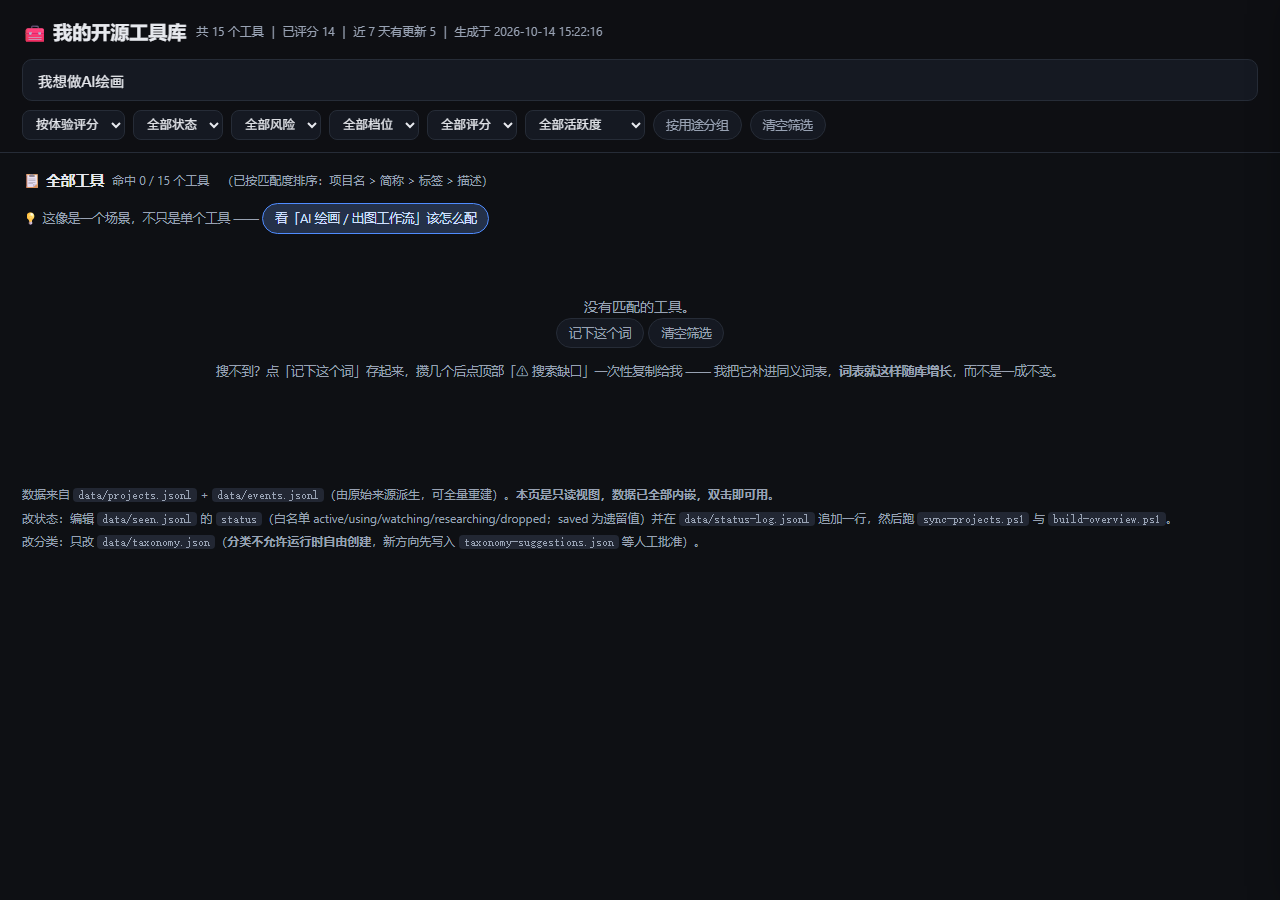
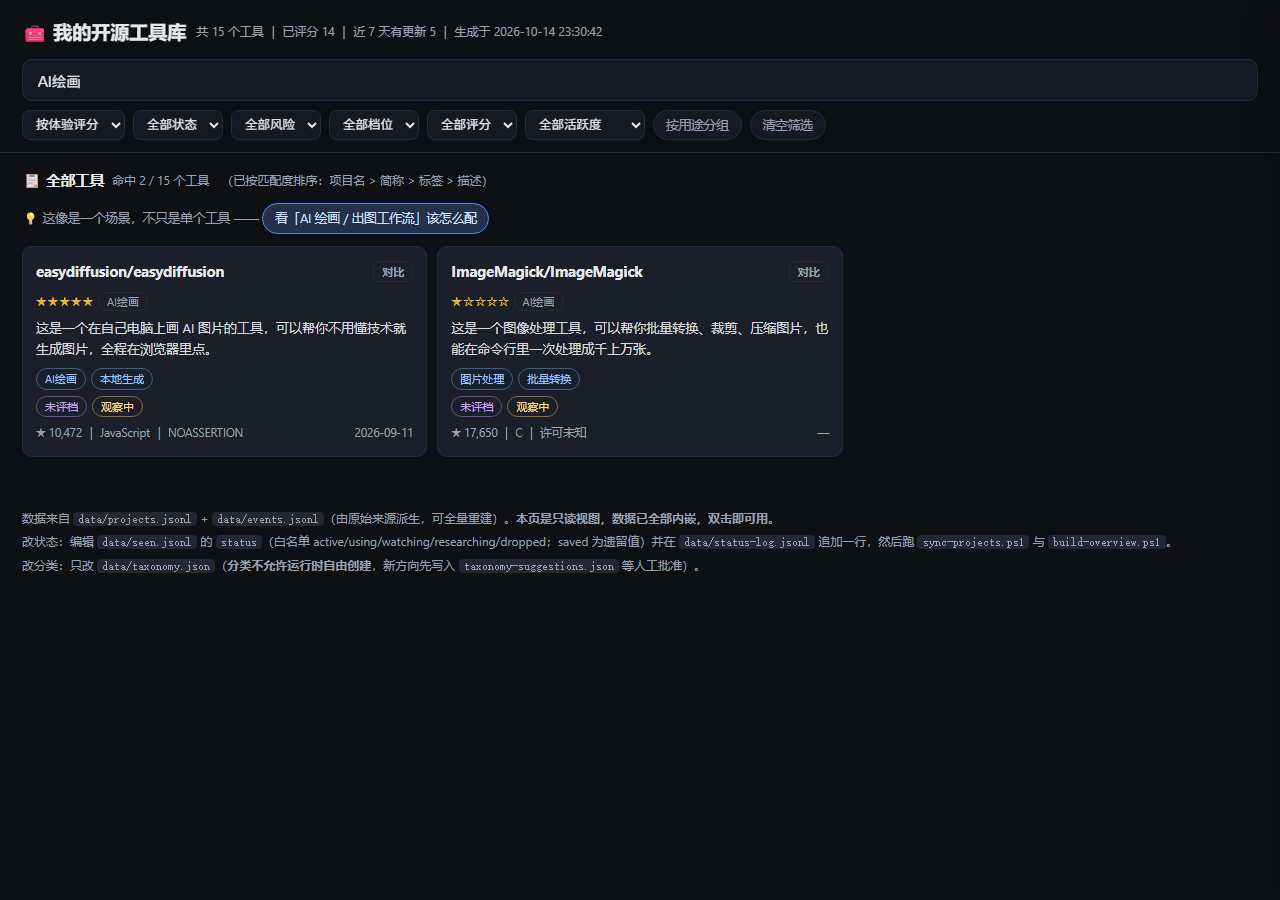
Update docs, screenshots and fixes

diff --git a/overview.html b/overview.html
@@ -102,7 +102,7 @@ table.cmpt td:first-child{color:var(--dim);white-space:nowrap;background:#181d26
 </head>
 <body>
 <header>
-  <h1>🧰 我的开源工具库 <small>共 15 个工具 ｜ 已评分 14 ｜ 近 7 天有更新 5 ｜ 生成于 2026-10-14 15:22:16</small></h1>
+  <h1>🧰 我的开源工具库 <small>共 15 个工具 ｜ 已评分 14 ｜ 近 7 天有更新 5 ｜ 生成于 2026-10-14 23:30:42</small></h1>
   <input id="q" placeholder="想干什么？直接说需求，例如：画图 / 做PPT / 替代PS / 聊天机器人 / 本地运行AI（按 / 聚焦）" oninput="render()">
   <div class="toolbar">
     <select id="sort" onchange="render()">
@@ -195,7 +195,7 @@ table.cmpt td:first-child{color:var(--dim);white-space:nowrap;background:#181d26
 </div>
 <script>
 const P = [{"id":"unslothai/unsloth","desc":null,"lic":null,"lang":"Python","stars":77838,"d7":0,"dtot":0,"pushed":null,"first":"2026-10-12","last":"2026-10-12","rec":false,"rc":0,"tier":null,"risk":null,"status":"watching","origin":"auto","oder":"自动发现","l1":"AI","l2":"模型训练","exp":1,"expSc":36,"part":{"易用性":8,"文档完整度":0,"功能成熟度":10,"维护活跃":8,"风险":10},"t":["AI","库","提效","实验","轻配置","中"],"hs":"complete","one":"这是一个加速大模型微调的工具，可以帮你用更少的显卡显存、更快地训练自己的模型。","prob":"以前自己微调一个大模型，动不动就需要多张高端显卡，显存不够直接跑不起来；这个通过优化训练实现，把门槛降到单张消费级显卡。","ex":"比如你想拿自己的行业数据微调一个 7B 模型，原本要 A100，用它在一张 24G 显存的卡上就能跑完。","fn":["一个大模型微调加速库，兼容主流开源模型。","显著降低显存占用；加快训练速度；支持多种开源模型与常见微调方式","本地微调大模型；做行业专用模型；教学与实验","用自有数据微调 7B 模型；在单卡上做 LoRA 微调；低成本试验不同训练参数","完全不写代码的人；只想直接调用现成模型 API 的场景"],"ft":["模型微调","训练加速","本地训练"],"evc":1,"note":null,"un":[]},{"id":"mudler/LocalAI","desc":null,"lic":null,"lang":"Go","stars":49485,"d7":0,"dtot":0,"pushed":null,"first":"2026-10-12","last":"2026-10-12","rec":false,"rc":0,"tier":null,"risk":null,"status":"watching","origin":"auto","oder":"自动发现","l1":"AI","l2":"本地模型","exp":1,"expSc":36,"part":{"易用性":8,"文档完整度":0,"功能成熟度":10,"维护活跃":8,"风险":10},"t":["AI","CLI","提效","实验","轻配置","中"],"hs":"complete","one":"这是一个在自己电脑上跑 AI 模型的工具，可以帮你把大模型、图像生成、语音都放在本机运行，还兼容 OpenAI 接口。","prob":"以前想本地跑多种 AI 能力，得分别装好几套东西；这个把文本、图像、语音整合成一个服务，接口和 OpenAI 一样，现有代码改个地址就能用。","ex":"比如你写好的程序本来调 OpenAI，把地址换成本机这个服务，就能在断网和不上传数据的情况下继续跑。","fn":["一个本地 AI 推理服务，覆盖大语言模型、图像生成与语音。","提供与 OpenAI 兼容的接口；支持文本、图像、语音多类模型；本地运行，数据不出机器","自建私有 AI 服务；替换云端 API；隐私敏感场景使用 AI","把程序的 API 地址改成本机；断网环境跑模型；自建团队内部推理服务","不愿折腾部署的人；对延迟要求极高的生产场景"],"ft":["本地模型","OpenAI兼容","自建服务"],"evc":1,"note":null,"un":[]},{"id":"storytold/photocraft","desc":null,"lic":"Apache-2.0","lang":"Rust","stars":45892,"d7":596,"dtot":596,"pushed":"2026-10-12T16:20:46Z","first":"2026-10-11","last":"2026-10-12","rec":true,"rc":1,"tier":"A","risk":null,"status":"active","origin":"auto","oder":"自动发现","l1":"设计","l2":"图片处理","exp":4,"expSc":78,"part":{"易用性":18,"文档完整度":20,"功能成熟度":15,"维护活跃":15,"风险":10},"t":["其他","CLI","创作","实验","要编程","中"],"hs":"complete","one":"这是一个免费的修图软件，可以帮你处理照片，而且是用 Rust 从零重写的、不依赖 Adobe。","prob":"以前想不花钱修图，要么用功能缩水的免费软件，要么继续交订阅费；这是一个从零重写、架构现代的替代品。","ex":"比如你要给一批活动照片统一调色、裁剪、导出，可以用它处理，而不用为一次性需求续费。","fn":["用纯 Rust 从零重写的开源照片编辑器。","图片编辑与调整；原生性能、启动快；开源可自行编译","替代订阅制修图软件；批量处理照片；学习 Rust 写的 GUI 应用","活动照片批量调色；简单修图与导出；自托管图像处理流程","需要专业印刷色彩管理的场景；想马上稳定使用、不能容忍早期版本问题的人"],"ft":["图片编辑","修图","照片处理"],"evc":3,"note":null,"un":[]},{"id":"NandhaKishorM/laya","desc":null,"lic":null,"lang":"Python","stars":32298,"d7":30,"dtot":30,"pushed":null,"first":"2026-10-11","last":"2026-10-12","rec":false,"rc":0,"tier":null,"risk":null,"status":"watching","origin":"auto","oder":"自动发现","l1":"其他","l2":"其他工具","exp":1,"expSc":36,"part":{"易用性":8,"文档完整度":0,"功能成熟度":10,"维护活跃":8,"风险":10},"t":["其他","库","提效","实验","轻配置","中"],"hs":"complete","one":"一个专门用来「做选择题」的小模型，一次计算就给答案，33 毫秒出结果，支持一百多种语言。","prob":"没有它的时候，想让 AI 判断「这封邮件该给哪个部门」「这条评论有多生气」，得调一个大模型生成一段文字再解析，慢、贵，还可能瞎编。它直接给出选项和概率，不生成文字，也就没有胡说这一说。","ex":"比如客服系统收到一条投诉，它能同时判断出该分给计费组、紧急程度是「快炸了」、以及这个人有退订风险，一次调用全给出来。","fn":["一个做结构化判断的模型，装上就能用，也能作为服务提供给 AI 助手调用。","三种题型：选项题（该归哪一类）、打分题（有多严重）、是否题（给出 0 到 1 的概率）；能读文本、邮件、工单或结构化数据；批量一次算很多条，比一条条问快；自动识别语言并切换到对应版本；可以在自己的数据上再训练，准确率提升很明显","客服工单自动分流、判定紧急程度；垃圾内容、钓鱼、越狱提示词识别；给 AI 工作流做快速路由和安全护栏","自动把工单分派给对应部门；判断一条评论是好评还是差评；在 AI 流程入口挡住提示词注入攻击","需要写文章、聊天、回答开放问题的场景（它只做判断，不生成文字）；选项特别多的分类任务（超过二十个选项时，官方承认明显弱于同类对手）；期望开箱即用就很准的人——官方自己说基础模型在选择题上接近瞎猜，要靠微调"],"ft":["非自回归决策引擎","需自取权重","上手成本高"],"evc":2,"note":null,"un":[]},{"id":"browser-use/jev-ultrafast","desc":null,"lic":"MIT","lang":"Python","stars":22611,"d7":9,"dtot":9,"pushed":"2026-09-30T01:24:38Z","first":"2026-10-11","last":"2026-10-12","rec":true,"rc":1,"tier":"S","risk":null,"status":"active","origin":"auto","oder":"自动发现","l1":"效率","l2":"自动化","exp":3,"expSc":67,"part":{"易用性":18,"文档完整度":16,"功能成熟度":10,"维护活跃":13,"风险":10},"t":["其他","Web","提效","实验","轻配置","中"],"hs":"complete","one":"这是一个给开发者用的网页自动化代理，可以帮你用最少的钱和时间让 AI 去操作网站。","prob":"以前让 AI 去点网页，要么用大模型逐步截图推理（又慢又贵），要么写一堆脆弱的 CSS 选择器脚本。这个走的是更省 token 的路线。","ex":"比如你要每天从一个后台系统里导出报表，可以让它代替你登录、点菜单、下载文件，而不是自己写脚本盯着网页改版。","fn":["一个主打「最快最便宜」的网页 agent（Python）。","用 AI 驱动浏览器完成操作；针对速度与调用成本做优化；跟随 browser-use 生态","批量操作网页后台；把重复点击交给 AI；做网页数据采集","定期导出后台报表；自动填写表单；跨站点搬运信息","需要长期稳定、网页改版也不坏的生产脚本；对浏览器自动化完全不熟的人"],"ft":["网页自动化","浏览器代理","AI代理"],"evc":2,"note":null,"un":[]},{"id":"Niko1221/Strata","desc":null,"lic":"MIT","lang":"C++","stars":21356,"d7":105,"dtot":105,"pushed":"2026-10-11T14:37:54Z","first":"2026-10-11","last":"2026-10-12","rec":true,"rc":1,"tier":"S","risk":null,"status":"active","origin":"auto","oder":"自动发现","l1":"AI","l2":"本地模型","exp":5,"expSc":85,"part":{"易用性":30,"文档完整度":20,"功能成熟度":10,"维护活跃":15,"风险":10},"t":["AI","框架","提效","实验","轻配置","中"],"hs":"complete","one":"这是一个让你在自己电脑上跑大模型的工具，可以帮你一键装好，并在本机提供一个兼容 OpenAI 接口的服务。","prob":"以前想在本地跑大模型，要自己配环境、下权重、写接口，很容易在依赖上卡住；这个做到一键安装，装完就能像调用云端 API 一样调用本机模型。","ex":"比如你写了一个用 OpenAI 接口的程序，把接口地址改成它给的本地地址，就能在断网情况下继续跑，数据也不出机器。","fn":["一个面向消费级硬件的本地大模型推理引擎，提供 OpenAI / Anthropic 兼容接口。","一键安装（Windows / Linux）；在本地暴露兼容 OpenAI 的接口；支持可选的图像输入","本机跑私有模型；给已有程序换上本地模型；断网/隐私场景使用 AI","把现有代码里的 API 地址换成 localhost；离线做文本处理；自建不给外人用的模型服务","机器显存不足跑不动目标模型的硬件；不想下载几十 GB 权重的人"],"ft":["本地大模型","推理引擎","OpenAI 兼容"],"evc":3,"note":null,"un":[]},{"id":"ImageMagick/ImageMagick","desc":null,"lic":null,"lang":"C","stars":17650,"d7":0,"dtot":0,"pushed":null,"first":"2026-10-12","last":"2026-10-12","rec":false,"rc":0,"tier":null,"risk":null,"status":"watching","origin":"auto","oder":"自动发现","l1":"AI","l2":"AI绘画","exp":1,"expSc":36,"part":{"易用性":8,"文档完整度":0,"功能成熟度":10,"维护活跃":8,"风险":10},"t":["其他","库","提效","实验","轻配置","中"],"hs":"complete","one":"这是一个图像处理工具，可以帮你批量转换、裁剪、压缩图片，也能在命令行里一次处理成千上万张。","prob":"以前要批量改图片格式或尺寸，要么一张张手动点，要么装庞大的图形软件；这个用一行命令就能处理整个文件夹。","ex":"比如你要把一百张 PNG 压成体积更小的 JPG，一行命令就能全部搞定，不用打开任何界面。","fn":["一个老牌的命令行图像处理工具集，几乎支持所有常见图片格式。","格式转换、缩放、裁剪、旋转；批量处理整个文件夹；也能被其他程序当图像处理库调用","批量压缩图片；网站图片处理流水线；自动化脚本里处理图像","批量把 PNG 转 JPG；统一给图片加边框；压缩上传前的图片体积","想用鼠标点点就完成修图的人；需要精细图层编辑的设计工作"],"ft":["图片处理","批量转换","命令行工具"],"evc":1,"note":null,"un":[]},{"id":"HBAI-Ltd/Toonflow-app","desc":null,"lic":null,"lang":"TypeScript","stars":17338,"d7":0,"dtot":0,"pushed":null,"first":"2026-10-12","last":"2026-10-12","rec":false,"rc":0,"tier":null,"risk":null,"status":"watching","origin":"auto","oder":"自动发现","l1":"AI","l2":"AI视频","exp":1,"expSc":36,"part":{"易用性":8,"文档完整度":0,"功能成熟度":10,"维护活跃":8,"风险":10},"t":["其他","插件","提效","实验","轻配置","中"],"hs":"complete","one":"这是一个做短剧和漫画的工具，可以帮你把剧本快速变成连载内容。","prob":"以前做短剧或条漫，从脚本到分镜到成片要好几套工具接力；这个把创作流程整合到一个应用里。","ex":"比如你想把一篇小说改编成短剧，可以用它来管理剧情、生成画面、串成成片，不用在多个软件之间来回导。","fn":["一个开源的短剧/漫剧创作应用。","剧本与分镜管理；生成画面内容；把素材串成完整剧集","做短视频连载；把小说改成短剧；批量产出漫画内容","小说改编短剧；日更条漫；做作品宣发素材","需要专业影视后期精度的制作；只想随手做一张图的人"],"ft":["短剧制作","漫画生成","内容创作"],"evc":1,"note":null,"un":[]},{"id":"robbietilton/Compositor","desc":null,"lic":"MIT","lang":"Swift","stars":15823,"d7":0,"dtot":0,"pushed":"2026-10-12T16:29:26Z","first":"2026-10-12","last":"2026-10-12","rec":true,"rc":1,"tier":"A","risk":"中","status":"active","origin":"auto","oder":"自动发现","l1":"设计","l2":"图片处理","exp":4,"expSc":69,"part":{"易用性":18,"文档完整度":16,"功能成熟度":10,"维护活跃":15,"风险":10},"t":["其他","桌面","替代","实验","轻配置","中"],"hs":"complete","one":"这是一个给 Mac 用户用的修图软件，可以帮你处理照片，而不用按月付 Adobe 的订阅费。","prob":"以前在 Mac 上做基本的照片处理，要么忍受 Adobe 的订阅，要么用功能残缺的免费软件；现在有一个原生的、买断式的替代品。","ex":"比如你要把一张照片调色、去掉多余的路人、再导出成网页用的格式，可以直接用它完成，不需要为偶尔用几次而续费一年订阅。","fn":["一个用 Swift 写的 macOS 原生图像编辑软件，定位是 Photoshop 的免费替代。","图层与常用修图工具；原生性能，启动和响应接近系统应用；常见的图片格式读写","日常照片修整；简单合成与抠图；替代订阅制修图软件","修掉照片里的杂物；给图片加文字和边框；批量调整尺寸","需要专业印刷级色彩管理的人；Windows 或 Linux 用户；重度依赖 Adobe 生态插件的工作流"],"ft":["图片编辑","修图","照片处理"],"evc":2,"note":null,"un":[]},{"id":"easydiffusion/easydiffusion","desc":null,"lic":"NOASSERTION","lang":"JavaScript","stars":10472,"d7":0,"dtot":0,"pushed":"2026-09-11T07:48:39Z","first":"2026-10-12","last":"2026-10-12","rec":false,"rc":0,"tier":null,"risk":null,"status":"watching","origin":"auto","oder":"自动发现","l1":"AI","l2":"AI绘画","exp":5,"expSc":85,"part":{"易用性":30,"文档完整度":20,"功能成熟度":15,"维护活跃":10,"风险":10},"t":["AI","桌面","提效","实验","轻配置","中"],"hs":"complete","one":"这是一个在自己电脑上画 AI 图片的工具，可以帮你不用懂技术就生成图片，全程在浏览器里点。","prob":"以前想本地跑 AI 绘画，要装 Python、配环境、下载模型，卡在某一步就放弃；这个做到的是一键装好，装完打开浏览器就能用。","ex":"比如你想要一张\"傍晚海边的小屋\"的插画，在网页输入框里写下这句话，点生成，几秒后就能看到图。","fn":["一个面向非技术用户的本地 AI 绘画工具，用浏览器界面操作。","文字生成图片（也可以在参考图上继续生成）；一键安装，不用手动配环境；界面简单，参数有默认值","生成配图与插画；体验本地 AI 绘画；给孩子做手工素材","输入一句话生成插画；拿一张草图生成成图；批量出壁纸","没有独立显卡、显存较小的电脑；想要最前沿模型和精细控制的专业用户"],"ft":["AI绘画","本地生成","一键安装"],"evc":1,"note":null,"un":[]},{"id":"storytold/filmcraft","desc":null,"lic":null,"lang":"Rust","stars":9610,"d7":181,"dtot":181,"pushed":null,"first":"2026-10-11","last":"2026-10-12","rec":false,"rc":0,"tier":null,"risk":null,"status":"watching","origin":"auto","oder":"自动发现","l1":"其他","l2":"其他工具","exp":1,"expSc":36,"part":{"易用性":8,"文档完整度":0,"功能成熟度":10,"维护活跃":8,"风险":10},"t":["其他","CLI","提效","实验","轻配置","中"],"hs":"complete","one":"这是一个视频剪辑软件，可以帮你剪片段、拼画面，是免费开源的。","prob":"以前做视频剪辑要么用付费软件，要么用带水印的免费工具；这个是本地运行的免费替代。","ex":"比如你要把几段手机拍的视频剪掉多余部分、拼成一条短片，用它就能完成。","fn":["一个开源视频剪辑软件，用 Rust 编写（与 Photocraft / Wordcraft 同系列）。","视频片段剪辑与拼接；基础特效与转场；本地处理，素材不外传","剪日常视频；做短片；素材粗剪","剪旅行 vlog；拼接多段录制；去头去尾","需要专业调色与多轨合成的制作；要求与 Premiere 工程互通的团队"],"ft":["视频剪辑","剪辑软件","替代Premiere"],"evc":2,"note":null,"un":[]},{"id":"storytold/wordcraft","desc":null,"lic":"Apache-2.0","lang":"Rust","stars":9578,"d7":5219,"dtot":5219,"pushed":"2026-10-12T16:22:14Z","first":"2026-10-11","last":"2026-10-12","rec":false,"rc":0,"tier":null,"risk":null,"status":"watching","origin":"auto","oder":"自动发现","l1":"办公","l2":"文档处理","exp":4,"expSc":73,"part":{"易用性":18,"文档完整度":20,"功能成熟度":10,"维护活跃":15,"风险":10},"t":["其他","CLI","提效","实验","要编程","中"],"hs":"complete","one":"这是一个文字处理软件，可以帮你写文档、写报告，是 Microsoft Word 的免费开源替代品。","prob":"以前写正式文档基本只能用 Word 或在线文档，要么付费要么把内容放在别人服务器上；这个是本地运行的免费替代，文档不出本机。","ex":"比如你要写一份合同或周报，可以用它排版、加标题层级、插入表格，然后导出成通用格式发给别人。","fn":["Microsoft Word 的开源重写版本，用 Rust 编写。","文档撰写与排版；标题/列表/表格等常见格式；导出通用文档格式","写报告与合同；整理长文档；离线办公","写周报并导出；排版一份说明书；起草合同","需要与 Word 宏、复杂域代码完全兼容的场景；要求极致稳定、不能容忍早期版本问题的办公环境"],"ft":["文档编辑","办公软件","替代Word"],"evc":3,"note":null,"un":[]},{"id":"yetone/magpie","desc":null,"lic":null,"lang":"TypeScript","stars":9070,"d7":0,"dtot":0,"pushed":null,"first":"2026-10-13","last":"2026-10-13","rec":true,"rc":1,"tier":"S","risk":"中","status":"active","origin":"auto","oder":"自动发现","l1":"AI","l2":"AI Agent","exp":1,"expSc":36,"part":{"易用性":8,"文档完整度":0,"功能成熟度":10,"维护活跃":8,"风险":10},"t":["其他","插件","提效","实验","轻配置","中"],"hs":"complete","one":"这是一个给开发者用的模型接入层，可以帮你把各家 AI 编程助手接到同一个地方，比如让 Codex 用上 DeepSeek。","prob":"以前每个 AI 编程工具都认自己合作的模型厂商，想换一家就得改一堆配置；这个把\"工具\"和\"模型\"解耦，一处配置就能混用。","ex":"比如你习惯用 Codex 但想用 DeepSeek 的模型，配置一次之后，Codex 那边就像什么都没变一样跑在 DeepSeek 上。","fn":["一个本地运行的模型路由层（TypeScript），把不同 agent 接到不同模型。","一处配置多家模型；让不同 AI 工具混用模型；本地服务，中转在你机器上","让 Codex 接 DeepSeek；多个工具共用一套 Key；快速换模型做对比","Codex 换模型；给 Claude Code 接别的供应商；对比同一问题在不同模型上的效果","完全不用命令行的新手；只需要一家模型、不做切换的人"],"ft":["模型路由","Agent 工具","开发辅助"],"evc":2,"note":null,"un":[]},{"id":"storytold/pdfcraft","desc":null,"lic":"Apache-2.0","lang":"Rust","stars":8993,"d7":0,"dtot":0,"pushed":"2026-10-12T15:55:31Z","first":"2026-10-12","last":"2026-10-12","rec":false,"rc":0,"tier":null,"risk":null,"status":"watching","origin":"auto","oder":"自动发现","l1":"办公","l2":"PDF 与阅读","exp":4,"expSc":81,"part":{"易用性":18,"文档完整度":20,"功能成熟度":18,"维护活跃":15,"风险":10},"t":["其他","CLI","提效","实验","要编程","中"],"hs":"complete","one":"这是一个 PDF 阅读编辑工具，可以帮你看 PDF、也能改里面的内容，是免费开源的。","prob":"以前改 PDF 基本都得买付费软件，免费工具通常只能看不能改；这个把阅读和编辑都做在本地。","ex":"比如你要把一份 PDF 里几页删掉、再合并另一份进去，用它就能完成，不用上传到网页工具。","fn":["一个开源的 PDF 阅读与编辑软件，用 Rust 编写。","阅读 PDF；编辑与生成 PDF；处理页面（增删、合并）","看资料与合同；合并拆分 PDF；给 PDF 做简单修改","合并几份 PDF；删掉不需要的页；导出新的 PDF","需要复杂表单填写与签章的场景；要求与 Adobe 生态完全兼容的工作流"],"ft":["PDF工具","阅读编辑","文档处理"],"evc":1,"note":null,"un":[]},{"id":"Anil-matcha/Open-Generative-AI","desc":null,"lic":null,"lang":"JavaScript","stars":30112,"d7":0,"dtot":0,"pushed":null,"first":"2026-10-12","last":"2026-10-12","rec":false,"rc":0,"tier":"dropped","risk":"高","status":"dropped","origin":"auto","oder":"自动发现","l1":"其他","l2":"其他工具","exp":null,"expSc":null,"part":null,"t":["AI","插件","提效","实验","轻配置","高"],"hs":"partial","one":"描述主打「无内容过滤/uncensored」且首页为付费平台引流，纯营销 + 合规风险","prob":null,"ex":null,"fn":[],"ft":[],"evc":1,"note":null,"un":[]}];
-const E = {"ImageMagick/ImageMagick":[{"d":"2026-10-12","t":"discovered","x":"首次收录，来源 未知"}],"Niko1221/Strata":[{"d":"2026-10-12","t":"stars_up","x":"+105 星（21251 → 21356）"},{"d":"2026-10-11","t":"recommended","x":"S 档"},{"d":"2026-10-11","t":"discovered","x":"首次收录，来源 self-hosted"}],"robbietilton/Compositor":[{"d":"2026-10-12","t":"discovered","x":"首次收录，来源 其他"},{"d":"2026-10-12","t":"recommended","x":"A 档 · 65 分 · 行动：收藏"}],"browser-use/jev-ultrafast":[{"d":"2026-10-11","t":"discovered","x":"首次收录，来源 ai-agent"},{"d":"2026-10-11","t":"recommended","x":"S 档"}],"Anil-matcha/Open-Generative-AI":[{"d":"2026-10-12","t":"discovered","x":"首次收录，来源 图像专题"}],"HBAI-Ltd/Toonflow-app":[{"d":"2026-10-12","t":"discovered","x":"首次收录，来源 未知"}],"storytold/photocraft":[{"d":"2026-10-12","t":"stars_up","x":"+596 星（45296 → 45892）"},{"d":"2026-10-11","t":"recommended","x":"A 档"},{"d":"2026-10-11","t":"discovered","x":"首次收录，来源 cli"}],"storytold/pdfcraft":[{"d":"2026-10-12","t":"discovered","x":"首次收录，来源 未知"}],"mudler/LocalAI":[{"d":"2026-10-12","t":"discovered","x":"首次收录，来源 未知"}],"easydiffusion/easydiffusion":[{"d":"2026-10-12","t":"discovered","x":"首次收录，来源 未知"}],"NandhaKishorM/laya":[{"d":"2026-10-12","t":"stars_up","x":"+30 星（32268 → 32298）"},{"d":"2026-10-11","t":"discovered","x":"首次收录，来源 未知"}],"storytold/filmcraft":[{"d":"2026-10-12","t":"stars_up","x":"+181 星（9429 → 9610）"},{"d":"2026-10-11","t":"discovered","x":"首次收录，来源 未知"}],"unslothai/unsloth":[{"d":"2026-10-12","t":"discovered","x":"首次收录，来源 未知"}],"storytold/wordcraft":[{"d":"2026-10-13","t":"stars_up","x":"+4818 星（4760 → 9578）"},{"d":"2026-10-12","t":"stars_up","x":"+401 星（4359 → 4760）"},{"d":"2026-10-11","t":"discovered","x":"首次收录，来源 未知"}],"yetone/magpie":[{"d":"2026-10-13","t":"discovered","x":"首次收录，来源 开发"},{"d":"2026-10-13","t":"recommended","x":"S 档 · 80 分 · 行动：试玩"}]};
+const E = {"yetone/magpie":[{"d":"2026-10-13","t":"discovered","x":"首次收录，来源 开发"},{"d":"2026-10-13","t":"recommended","x":"S 档 · 80 分 · 行动：试玩"}],"browser-use/jev-ultrafast":[{"d":"2026-10-11","t":"discovered","x":"首次收录，来源 ai-agent"},{"d":"2026-10-11","t":"recommended","x":"S 档"}],"storytold/pdfcraft":[{"d":"2026-10-12","t":"discovered","x":"首次收录，来源 未知"}],"mudler/LocalAI":[{"d":"2026-10-12","t":"discovered","x":"首次收录，来源 未知"}],"easydiffusion/easydiffusion":[{"d":"2026-10-12","t":"discovered","x":"首次收录，来源 未知"}],"Niko1221/Strata":[{"d":"2026-10-12","t":"stars_up","x":"+105 星（21251 → 21356）"},{"d":"2026-10-11","t":"recommended","x":"S 档"},{"d":"2026-10-11","t":"discovered","x":"首次收录，来源 self-hosted"}],"storytold/photocraft":[{"d":"2026-10-12","t":"stars_up","x":"+596 星（45296 → 45892）"},{"d":"2026-10-11","t":"recommended","x":"A 档"},{"d":"2026-10-11","t":"discovered","x":"首次收录，来源 cli"}],"unslothai/unsloth":[{"d":"2026-10-12","t":"discovered","x":"首次收录，来源 未知"}],"robbietilton/Compositor":[{"d":"2026-10-12","t":"discovered","x":"首次收录，来源 其他"},{"d":"2026-10-12","t":"recommended","x":"A 档 · 65 分 · 行动：收藏"}],"NandhaKishorM/laya":[{"d":"2026-10-12","t":"stars_up","x":"+30 星（32268 → 32298）"},{"d":"2026-10-11","t":"discovered","x":"首次收录，来源 未知"}],"storytold/filmcraft":[{"d":"2026-10-12","t":"stars_up","x":"+181 星（9429 → 9610）"},{"d":"2026-10-11","t":"discovered","x":"首次收录，来源 未知"}],"Anil-matcha/Open-Generative-AI":[{"d":"2026-10-12","t":"discovered","x":"首次收录，来源 图像专题"}],"HBAI-Ltd/Toonflow-app":[{"d":"2026-10-12","t":"discovered","x":"首次收录，来源 未知"}],"ImageMagick/ImageMagick":[{"d":"2026-10-12","t":"discovered","x":"首次收录，来源 未知"}],"storytold/wordcraft":[{"d":"2026-10-13","t":"stars_up","x":"+4818 星（4760 → 9578）"},{"d":"2026-10-12","t":"stars_up","x":"+401 星（4359 → 4760）"},{"d":"2026-10-11","t":"discovered","x":"首次收录，来源 未知"}]};
 const PLANS = [{"id":"ai-video","name":"做 AI 视频","triggers":["做视频","短视频","ai视频","视频生成","ai 视频","漫剧","短剧"],"intro":"一条 AI 视频通常要过这几步：先有画面，再剪成片，最后配声音。下面是每一步该看哪类工具。","roles":[{"role":"画面生成","why":"视频的画面素材从这里来（文生图 / 文生视频 / 动画）","l2":["AI视频","AI绘画"],"ft":["视频制作","文生图","动画生成","动态插画"]},{"role":"成片剪辑与后期","why":"把素材拼成片子：剪辑、转场、增强画质","l2":["图片处理"],"ft":["视频剪辑","视频增强","画质增强"]},{"role":"配音与音频","why":"旁白、配音、口播都在这步解决","l2":[],"ft":["语音处理","语音合成","文字转语音","音频编辑"]},{"role":"素材管理","why":"素材一多就要能找得到、理得清","l2":["文件管理"],"ft":["文件搜索","素材"]}]},{"id":"ai-image","name":"AI 绘画 / 出图工作流","triggers":["画图","ai绘画","出图","文生图","生成图片","绘画","ai画图","修图"],"intro":"出图不只是「输入一句话」：模型怎么跑、图怎么改、批量怎么管，各是一步。","roles":[{"role":"出图主体","why":"真正把文字变成图的工具","l2":["AI绘画"],"ft":["文生图","AI绘画","图像生成"]},{"role":"本地运行 / 模型管理","why":"不想付费或用云端，就在本机跑","l2":["本地模型","模型训练"],"ft":["本地模型","模型管理"]},{"role":"改图与后期","why":"生成的图多半要修：抠图、去背景、局部重绘","l2":["图片处理","图片处理"],"ft":["修图","抠图","去背景","局部重绘"]}]},{"id":"product-design","name":"产品设计 / UI","triggers":["产品设计","ui设计","做界面","原型","设计稿","ui"],"intro":"从想法到可看的稿子：灵感与生成、界面素材、结构梳理、文档沉淀。","roles":[{"role":"界面与视觉生成","why":"把想法快速变成可看的界面或配图","l2":["UI设计","AI绘画"],"ft":["UI设计","设计稿","图示生成"]},{"role":"建模 / 三维","why":"涉及实体产品或场景时需要","l2":["建模"],"ft":["建模","CAD"]},{"role":"思路与文档","why":"需求、竞品、说明总得记下来","l2":["笔记","AI办公"],"ft":["笔记","文档编辑"]}]},{"id":"local-ai","name":"本地跑 AI（离线 / 私有）","triggers":["本地运行ai","离线ai","本地跑模型","私有部署","自己电脑跑ai","本地ai"],"intro":"数据不出机器：模型怎么跑、怎么接进现有程序、怎么微调。","roles":[{"role":"推理引擎","why":"在本机把模型跑起来","l2":["本地模型"],"ft":["本地大模型","推理引擎","OpenAI兼容"]},{"role":"训练 / 微调","why":"要用自己的数据调模型","l2":["模型训练"],"ft":["模型微调","训练加速"]},{"role":"服务与部署","why":"让别的程序/别的设备也能用上","l2":["部署托管","自动化"],"ft":["自建服务","自托管"]}]},{"id":"coding","name":"写代码 / 编程助手","triggers":["写代码","编程助手","ai编程","代码助手","coding","重构","看代码"],"intro":"从「帮我写」到「帮我查」：助手、代码理解、工具链。","roles":[{"role":"编程助手","why":"直接在编辑器/终端里帮你写与改","l2":["编程助手"],"ft":["编程助手","代码助手","coding agent"]},{"role":"代码理解与分析","why":"改之前先搞清影响面、依赖、坏味道","l2":["代码分析"],"ft":["代码分析","索引","依赖分析"]},{"role":"开发工具","why":"日常脚手架与效率工具","l2":["开发工具"],"ft":["开发工具","命令行工具"]}]},{"id":"find-files","name":"找文件 / 整理素材","triggers":["找文件","搜文件","文件太多","整理文件","素材管理","搜索文件"],"intro":"东西一多就找不到：先能搜到，再能理清，最后能自动化。","roles":[{"role":"搜索与索引","why":"记得内容却忘了文件名时靠它","l2":["文件管理"],"ft":["文件搜索","语义搜索","本地索引"]},{"role":"系统级效率","why":"剪贴板、启动器、快捷操作","l2":["系统工具"],"ft":["系统工具","快捷"]},{"role":"自动化","why":"重复的整理动作交给脚本","l2":["自动化"],"ft":["自动化","定时任务"]}]},{"id":"office-docs","name":"做 PPT / 写文档","triggers":["做ppt","写文档","汇报","幻灯片","演示文稿","写报告"],"intro":"别只找「生成 PPT 的 AI」——排版、素材、成稿各是一步。","roles":[{"role":"演示与文档成稿","why":"真正产出 ppt / 文档文件","l2":["AI办公"],"ft":["幻灯片","做PPT","文档编辑"]},{"role":"配图与视觉","why":"图文并茂比纯文字好读","l2":["AI绘画","图片处理"],"ft":["配图","插图","图示生成"]},{"role":"素材与知识沉淀","why":"长期写东西要有自己的资料库","l2":["笔记"],"ft":["笔记","知识管理"]}]},{"id":"voice-audio","name":"配音 / 语音处理","triggers":["配音","语音转文字","字幕","音频","转录","朗读"],"intro":"声音这条线：把话说出来（合成）、把话记下来（识别）、把音修好（编辑）。","roles":[{"role":"语音合成 / 朗读","why":"给视频或播客生成旁白","l2":[],"ft":["语音合成","文字转语音","配音"]},{"role":"语音识别 / 字幕","why":"把录音变成可编辑的文字","l2":[],"ft":["语音识别","字幕","转写"]},{"role":"音频编辑","why":"剪掉口误、降噪、调音量","l2":[],"ft":["音频编辑","录音剪辑"]}]},{"id":"dsh-boost","name":"给 DSH 加装能力","triggers":["dsh插件","插件","dsh","扩展dsh","给dsh加"],"intro":"DSH 本体之外的能力都靠插件/技能补：装什么、怎么管、怎么配。","roles":[{"role":"插件与技能","why":"新能力以插件/技能形式加进来","l2":["DSH 插件","DSH 技能"],"ft":["DSH 插件","agent-skills"]},{"role":"配置与观测","why":"装多了要能看清状态、额度、上下文","l2":["DSH 配置"],"ft":["配额管理","配置","上下文"]}]},{"id":"research","name":"查资料 / 学术研究","triggers":["查资料","找论文","学术","research","调研","收集资料"],"intro":"检索、读、整理三段：先找到，再读懂，最后沉淀成自己的。","roles":[{"role":"检索与抓取","why":"把散落的信息拉回来","l2":[],"ft":["网页搜索","检索","抓取","爬取"]},{"role":"理解与整理","why":"长文/论文要能快速读进去","l2":["AI聊天","AI写作"],"ft":["翻译","总结","写作"]},{"role":"知识沉淀","why":"形成可检索的长期资料库","l2":["笔记"],"ft":["笔记","知识管理"]}]},{"id":"ai-agent","name":"用 AI Agent 干活","triggers":["ai agent","智能体","agent","自动化助手","个人助手"],"intro":"让 AI 自己动手：先有个能编排任务的助手，再接上工具与浏览器，最后把过程管起来。","roles":[{"role":"Agent 主程序 / 编排","why":"负责拆任务、调工具、循环推进","l2":["AI Agent"],"ft":["AI代理","AI Agent","个人助手"]},{"role":"浏览器与设备操作","why":"让它真的能点网页、操作设备，而不只是聊天","l2":["自动化"],"ft":["浏览器代理","网页自动化","手机自动化"]},{"role":"运行环境与沙箱","why":"给 agent 一个受限空间跑，避免它乱动你的系统","l2":[],"ft":["沙箱","权限控制","隔离","sandbox"]}]}];
 const SYN = [{"group":"图像生成","terms":["画图","绘画","作图","图片生成","文生图","AI画图","AI画画","绘图","出图","图片制作","text-to-image","t2i","image generation"]},{"group":"图片编辑","terms":["修图","改图","P图","照片处理","图像编辑","抠图","去背景","局部重绘","inpainting","photo editing","背景替换"]},{"group":"本地大模型","terms":["本地跑模型","离线AI","本地AI","本地运行AI","私有模型","自己电脑跑AI","local llm","本地推理","Ollama","GGUF"]},{"group":"编程助手","terms":["写代码","AI写代码","编程助手","代码补全","coding agent","代码助手","自动改代码","AI编程"]},{"group":"网页自动化","terms":["自动点网页","网页操作","爬数据","自动填表","浏览器自动化","RPA","web agent","采集"]},{"group":"文件搜索","terms":["找文件","管理文件","整理文件","搜文件","文件搜索","搜内容","全盘搜索","快速查找","file search","everything"]},{"group":"个人助手","terms":["助手","AI助手","个人助理","私人助手","自建助手","agent","自动化助理","提醒"]},{"group":"数据分析","terms":["分析数据","数据处理","关联表格","数据工作台","BI","数据探索","本地分析"]},{"group":"代码分析","terms":["看代码","代码关系","依赖分析","影响面","重构","代码图谱","静态分析","老项目"]},{"group":"文档配图","terms":["画示意图","做插画","配图","解释图","流程图","插图","diagram"]},{"group":"手机自动化","terms":["自动操作手机","手机签到","真机操作","设备自动化","手机脚本"]},{"group":"车载工具","terms":["车机","投屏","CarPlay","车上导航","车载系统"]},{"group":"语音处理","terms":["语音转文字","文字转语音","语音识别","TTS","ASR","转写"]},{"group":"网页生成","terms":["生成网页","HTML生成","排版回答","做网页","explainer"]},{"group":"办公文档","terms":["做PPT","PPT","幻灯片","演示文稿","做表格","写文档","汇报"],"source":"手工","written_at":"2026-10-14"},{"group":"图片编辑","terms":["替代PS","PS","photoshop","修图","改图","抠图","去背景"],"source":"手工","written_at":"2026-10-14"},{"group":"AI聊天","terms":["聊天机器人","chatbot","对话","问答","AI助手"],"source":"手工","written_at":"2026-10-14"}];   // 同义词组：搜索时按「组内任一命中」算命中
 const WS = [];
@@ -267,7 +267,7 @@ function expandToken(t){
   // §2 修复（v5.1.0 测试发现）：中文整句没有空格 → 整句被当成**一个词**去匹配，必然 0 命中
   // （实测「我想做PPT / 我要画图 / 我要写代码 / 我要找AI助手 / 我要管理文件」= 0/5）。
   // 策略：剥掉意图前缀，对剩下的短词做同义词扩展；整句也保留（避免误伤正常搜索）。
-  const INTENT = /^(我想|我要|帮我|给我|想要|需要一个|需要|寻找|找找|有没有|求|想|要|找)/;
+  const INTENT = /^(我想|我要|帮我|给我|想要|需要一个|需要|寻找|找找|有没有|求|想|要|找|做个|做)/;
   return toks.map(function(t){
     const tl0 = String(t).toLowerCase();
     if (expandToken(tl0).length > 1) return expandToken(tl0);   // ① 精确命中同义词组 → 不要再容错改写（ppt 被 fuzzyFix 改写就是这个 bug）

diff --git a/.dsh/skills/github-daily-picks/CHANGELOG.md b/.dsh/skills/github-daily-picks/CHANGELOG.md
@@ -7,13 +7,36 @@
 
 | 项 | 值 |
 |---|---|
-| SKILL.md | 438 行 / 44275 B |
-| SHA256 | 0F56C96F58FC6CEE1067FCF819318E2E11EC9B0C0D58A872BEF01CF7DAAF3FEB |
+| SKILL.md | 448 行 / 45174 B |
+| SHA256 | CE1294DBAFF2FBB0D8ADBF7B4853FBFFD003A40DA08EEC7BE02CBB8589395E21 |
 | 校验 | 139 项全通过（`audit.ps1`） |
 | 定版日期 | 2026-10-13 |
 
 ---
 
+## [5.0.1] — 2026-10-14 · 首次使用体验（入口 + 示例词一致性）
+
+产品评审（用户 + GPT）定调：这轮不是加功能，是**发布后第一次使用体验**；范围严格限定，不动数据层。
+
+### 改了什么
+
+| # | 事项 | 文件 | 说明 |
+|---|---|---|---|
+| 1 | **首次打开说明** | `QUICKSTART.md` 顶部 | 新增 2 行：双击 `overview.html` 就是入口；打不开时用「右键 → 打开方式」。**不写成 Markdown 链接**（会触发 audit 第 23 节死链检查，因为同目录没有 overview.html） |
+| 2 | **首次入口提示规则** | `SKILL.md` 第八节 | 新增「首次入口提示（不检测、不重复）」：只在本会话首次或用户明确问到时，在回复末尾给 ≤4 行入口；**不做"是否打开过页面"检测**、**不替用户打开本地文件**。**不新增 `## ` 小节**（audit 硬校验 SKILL 章节数 = 14） |
+| 3 | **示例词 A（文档统一）** | `README.md` / `docs/screenshots/README.md` / `QUICKSTART.md` | 示例词「我想做AI绘画」→ **`AI绘画`**（demo 实测 2 命中，页面 hero 自带按钮就是它）；能力表把「找文件」换成「AI绘画」——`找文件` 在 demo 上 0 命中（库里**没有**文件类工具，属数据现状，**不修搜索**） |
+| 4 | **示例词 B（解析修复）** | `tools/build-overview.ps1` | 意图前缀表 `INTENT` 增补 `做个` / `做` → 「我想做AI绘画」由 **0 → 2 命中**。**只加这两个**，不扩展到「我想要一个 / 帮我弄一个」等（避免自然语言理解黑洞） |
+
+### 为什么
+
+库里**有**匹配工具（`easydiffusion` 的功能标签就是「AI绘画」），但用户照 README 的自然语言输入失败 —— 这是入口体验问题（属《不是Bug清单》§7「常见词搜索 0 命中」的真 bug 形态）；同时**文档第一印象不应依赖解析能力**，所以文档侧也统一成最简单的词。
+
+### 校验
+
+- audit **139 项 / 136 通过 / 3 跳过 / 0 失败**；check-config 15/0；check-page PASS（页面改动后重跑）。
+- 截图源页生成器 `发布测试\生成截图源页.ps1` 的注入词同步改为 `AI绘画`。
+
+---
 ## [5.3.0] — 2026-10-14 · 页面数字 + README 截图修复（自检 137 → 139）
 
 在 GitHub 上**看渲染结果**复核时发现的两处事故（脚本全绿、但它们是真的错）：

diff --git a/CHANGELOG.md b/CHANGELOG.md
@@ -7,13 +7,36 @@
 
 | 项 | 值 |
 |---|---|
-| SKILL.md | 438 行 / 44275 B |
-| SHA256 | 0F56C96F58FC6CEE1067FCF819318E2E11EC9B0C0D58A872BEF01CF7DAAF3FEB |
+| SKILL.md | 448 行 / 45174 B |
+| SHA256 | CE1294DBAFF2FBB0D8ADBF7B4853FBFFD003A40DA08EEC7BE02CBB8589395E21 |
 | 校验 | 139 项全通过（`audit.ps1`） |
 | 定版日期 | 2026-10-13 |
 
 ---
 
+## [5.0.1] — 2026-10-14 · 首次使用体验（入口 + 示例词一致性）
+
+产品评审（用户 + GPT）定调：这轮不是加功能，是**发布后第一次使用体验**；范围严格限定，不动数据层。
+
+### 改了什么
+
+| # | 事项 | 文件 | 说明 |
+|---|---|---|---|
+| 1 | **首次打开说明** | `QUICKSTART.md` 顶部 | 新增 2 行：双击 `overview.html` 就是入口；打不开时用「右键 → 打开方式」。**不写成 Markdown 链接**（会触发 audit 第 23 节死链检查，因为同目录没有 overview.html） |
+| 2 | **首次入口提示规则** | `SKILL.md` 第八节 | 新增「首次入口提示（不检测、不重复）」：只在本会话首次或用户明确问到时，在回复末尾给 ≤4 行入口；**不做"是否打开过页面"检测**、**不替用户打开本地文件**。**不新增 `## ` 小节**（audit 硬校验 SKILL 章节数 = 14） |
+| 3 | **示例词 A（文档统一）** | `README.md` / `docs/screenshots/README.md` / `QUICKSTART.md` | 示例词「我想做AI绘画」→ **`AI绘画`**（demo 实测 2 命中，页面 hero 自带按钮就是它）；能力表把「找文件」换成「AI绘画」——`找文件` 在 demo 上 0 命中（库里**没有**文件类工具，属数据现状，**不修搜索**） |
+| 4 | **示例词 B（解析修复）** | `tools/build-overview.ps1` | 意图前缀表 `INTENT` 增补 `做个` / `做` → 「我想做AI绘画」由 **0 → 2 命中**。**只加这两个**，不扩展到「我想要一个 / 帮我弄一个」等（避免自然语言理解黑洞） |
+
+### 为什么
+
+库里**有**匹配工具（`easydiffusion` 的功能标签就是「AI绘画」），但用户照 README 的自然语言输入失败 —— 这是入口体验问题（属《不是Bug清单》§7「常见词搜索 0 命中」的真 bug 形态）；同时**文档第一印象不应依赖解析能力**，所以文档侧也统一成最简单的词。
+
+### 校验
+
+- audit **139 项 / 136 通过 / 3 跳过 / 0 失败**；check-config 15/0；check-page PASS（页面改动后重跑）。
+- 截图源页生成器 `发布测试\生成截图源页.ps1` 的注入词同步改为 `AI绘画`。
+
+---
 ## [5.3.0] — 2026-10-14 · 页面数字 + README 截图修复（自检 137 → 139）
 
 在 GitHub 上**看渲染结果**复核时发现的两处事故（脚本全绿、但它们是真的错）：

diff --git a/README.md b/README.md
@@ -49,7 +49,7 @@
 | 图 | 展示什么 | 图注 |
 |---|---|---|
 | ① `docs/screenshots/1-home.png` | 首页：项目数量、搜索框、分类入口、按需求组方案 | **打开即用的个人开源工具库** |
-| ② `docs/screenshots/2-search.png` | 在搜索框输入「我想做AI绘画」，结果给出图片生成 / 插画 / 工作流 | **不需要知道项目名字，用需求找工具** |
+| ② `docs/screenshots/2-search.png` | 在搜索框输入「AI绘画」，结果给出图片生成 / 插画 / 工作流 | **不需要知道项目名字，用需求找工具** |
 | ③ `docs/screenshots/3-workspace.png` | 一个工作区（如「产品设计作业」）里绑着的那套工具与进度 | **根据目标组合工具，而不是收藏链接** |
 
 ---
@@ -58,7 +58,7 @@
 
 | 能力 | 说明 | 入口 |
 |---|---|---|
-| **用需求找工具** | 搜「做视频」「找文件」「本地跑 AI」，不依赖记忆里的项目名；支持**分词 + 错字容错**（`comfui` → `comfyui`） | 页面搜索框 |
+| **用需求找工具** | 搜「做视频」「AI绘画」「本地跑 AI」，不依赖记忆里的项目名；支持**分词 + 错字容错**（`comfui` → `comfyui`） | 页面搜索框 |
 | **按需求组方案** | 11 个现成场景（AI 视频 / AI 绘画 / 产品设计 / 本地跑 AI / 写代码 / 找文件 / PPT 文档 / 配音 / DSH 加装 / 查资料 / AI Agent），每步说明**为什么需要**、每个工具给「**选它因为**」（人话，不是字段串） | 页面「🧩 按需求组方案」或对话里 `/tool-stack` |
 | **工作区** | 把一套工具绑到一件事上：目标 / 状态 / 工具 / ✅⬜进度 / 备注。**故意很小，不是 Notion** | 页面「📌 我的工作区」 |
 | **人话介绍** | 每个项目：一句话 / 它解决什么问题 / 举个例子 / 功能说明五项 / 适合谁。**没素材就标「待补全」，绝不编造** | 点卡片看详情 |

diff --git a/QUICKSTART.md b/QUICKSTART.md
@@ -1,5 +1,8 @@
 # 5 分钟上手
 
+> **第一次使用？** 打开你解压出来的文件夹，双击 **`overview.html`** —— 浏览器打开就是工具库页面（本地网页，免安装）。
+> 打不开时：右键 `overview.html` → 打开方式 → Edge / Chrome。
+
 > 这个库**不需要安装、不需要联网、不需要账号**。双击一个 HTML 文件就能用。
 > 它是你自己的：数据全在你本机，别人看不到。
 > ⚠ 你下载到的是**演示包**：里面是 **15 条公开项目的 demo 数据**，不含作者的日报历史或个人记录。你自己的库从空开始长。
@@ -57,7 +60,7 @@
 |---|---|
 | `做视频` | 画面生成、剪辑、配音三类工具 |
 | `AI绘画` | 出图、改图、本地跑模型 |
-| `找文件` | 文件搜索、系统工具、自动化 |
+| `本地跑AI` | 本机推理、离线模型、自建服务 |
 | `我想做播客` | 会提示你「这像一个场景」，直接给一整套 |
 
 **三个小提示**：

diff --git a/docs/screenshots/README.md b/docs/screenshots/README.md
@@ -6,7 +6,7 @@
 | 文件名 | 拍什么 | README 里的图注 |
 |---|---|---|
 | `1-home.png` | **首页顶部**：让「👋 欢迎来到你的开源工具库」+ 项目数量 + 搜索框 + 「🧩 按需求组方案」的场景按钮都在画面里 | 打开即用的个人开源工具库 |
-| `2-search.png` | 在搜索框输入 **`我想做AI绘画`**，让结果卡片（图片生成 / 插画 / 工作流）露出来 | 不需要知道项目名字，用需求找工具 |
+| `2-search.png` | 在搜索框输入 **`AI绘画`**，让结果卡片（图片生成 / 插画 / 工作流）露出来 | 不需要知道项目名字，用需求找工具 |
 | `3-workspace.png` | 点开一个工作区（例如「产品设计作业」），拍到右侧面板里的**目标 + 工具列表 + ✅⬜ 进度** | 根据目标组合工具，而不是收藏链接 |
 
 ## 拍之前的两点注意
